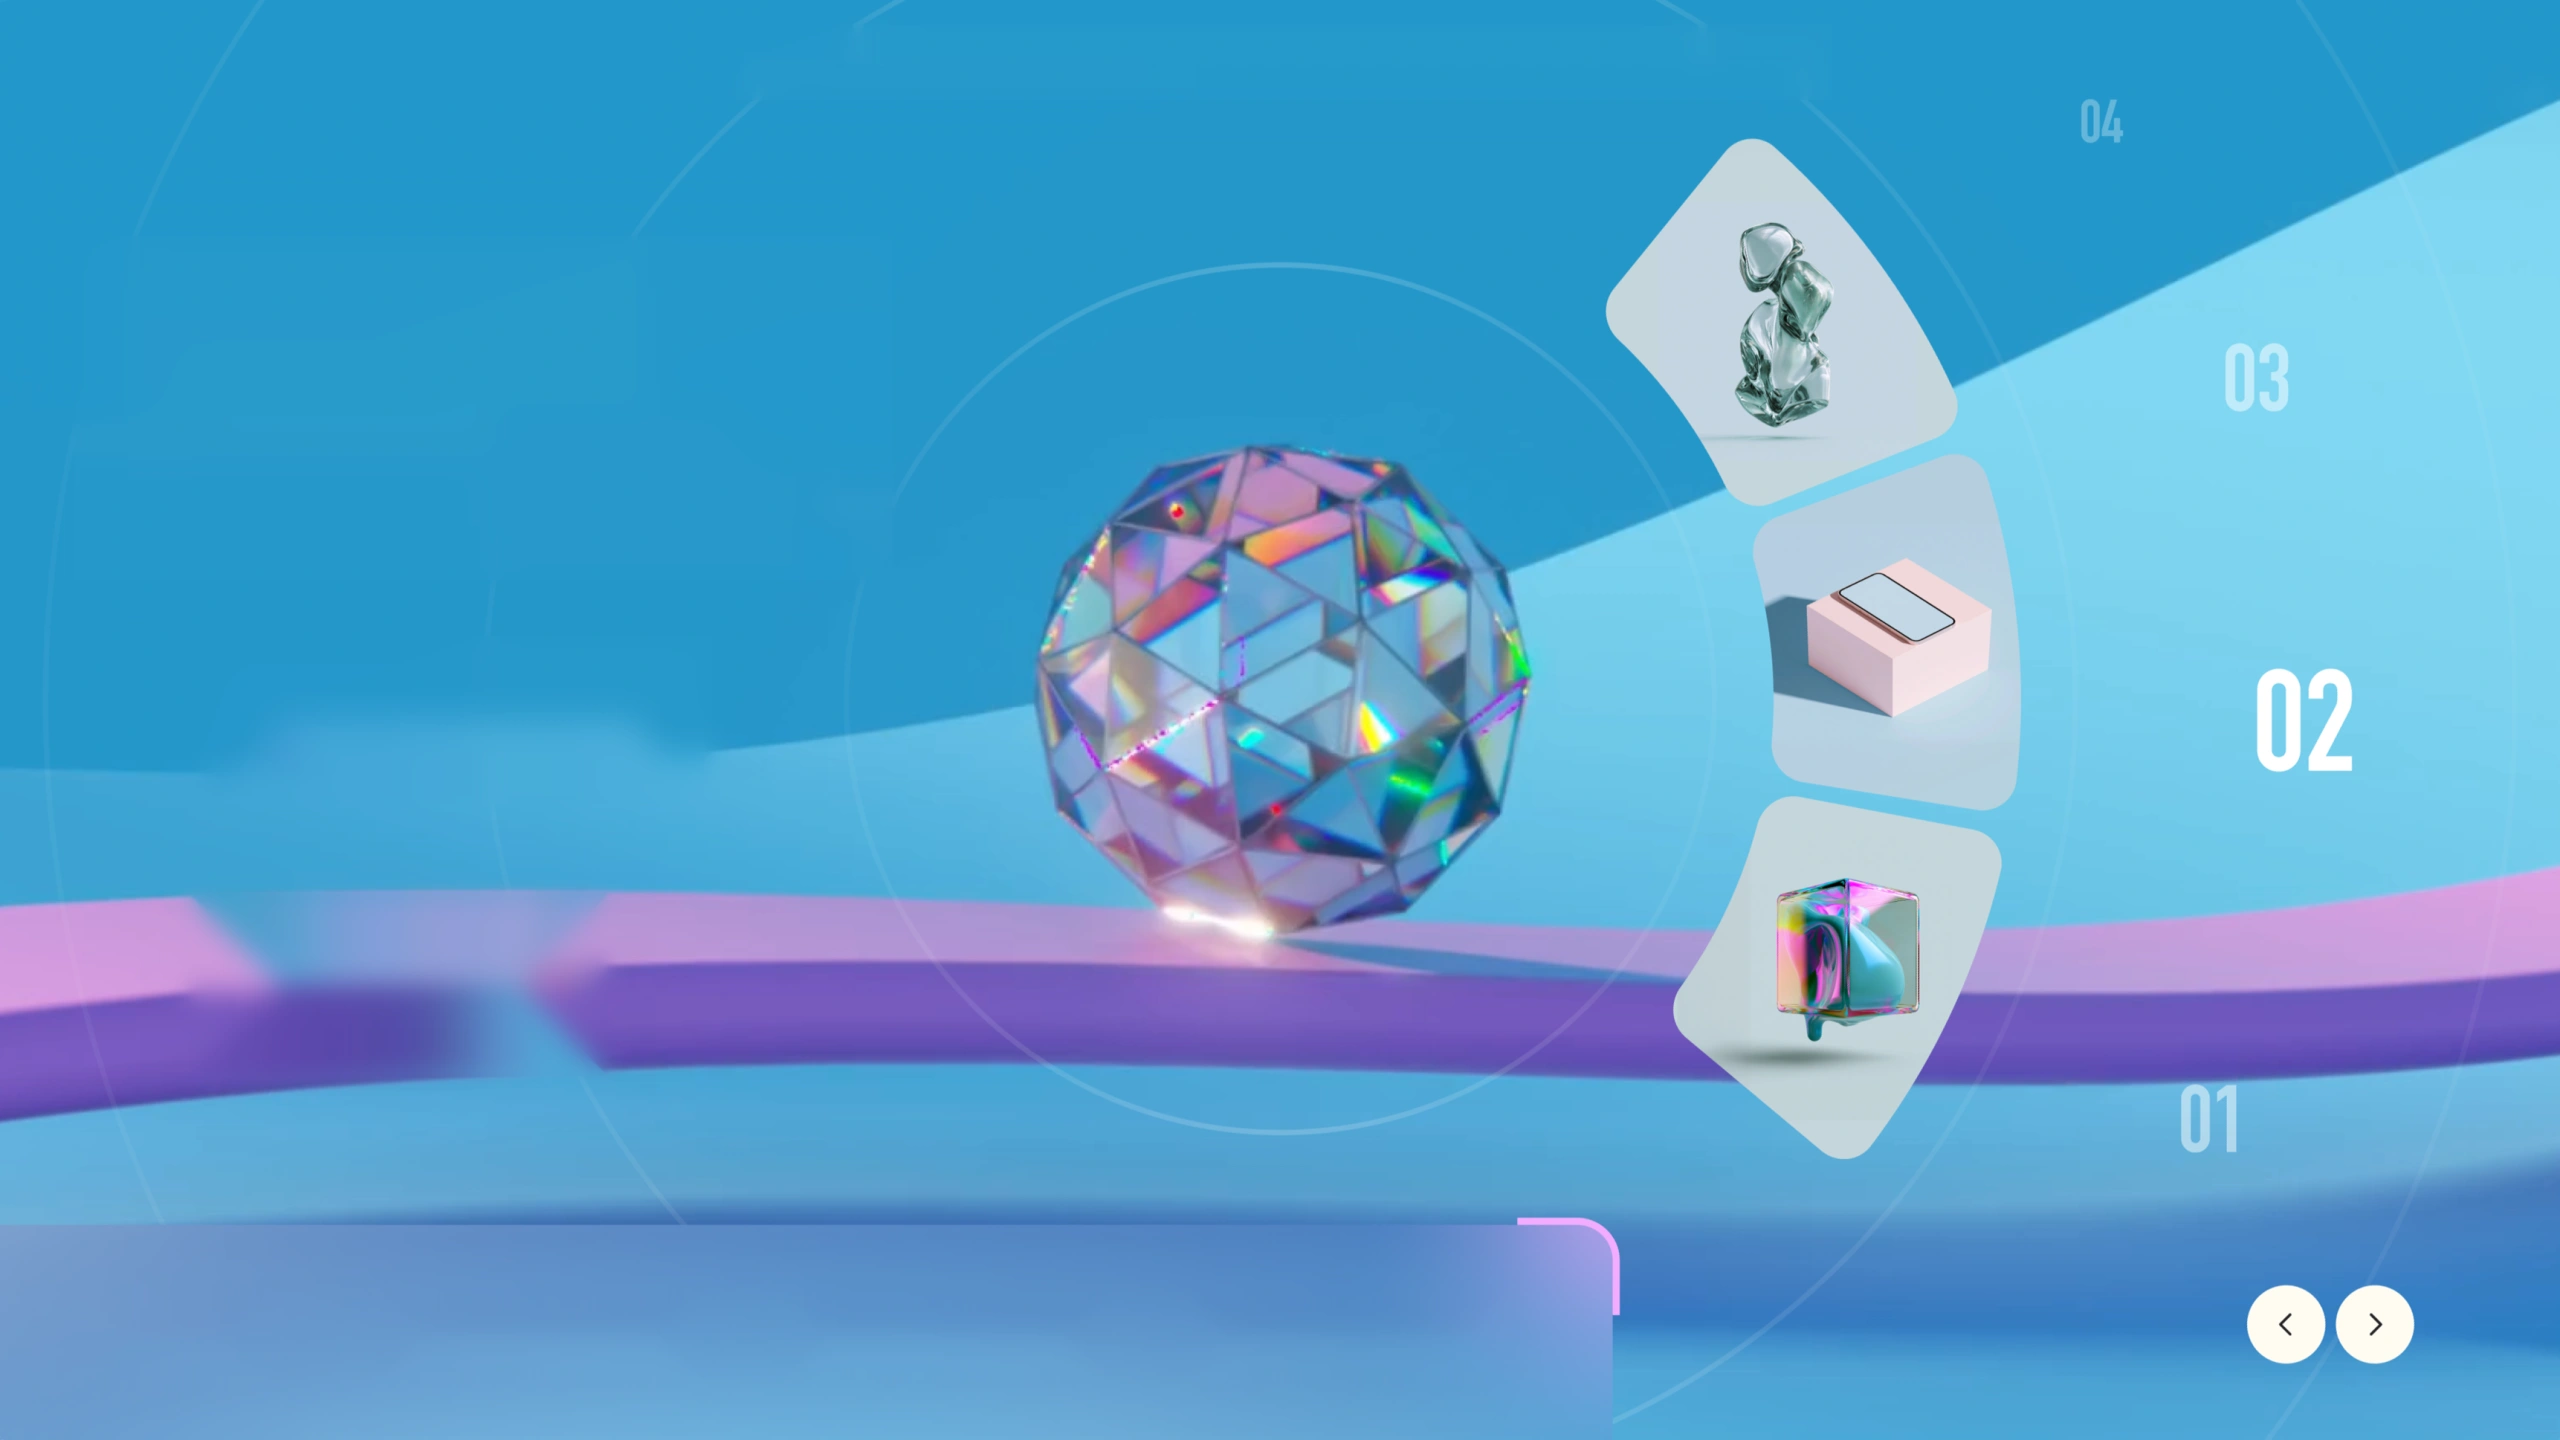
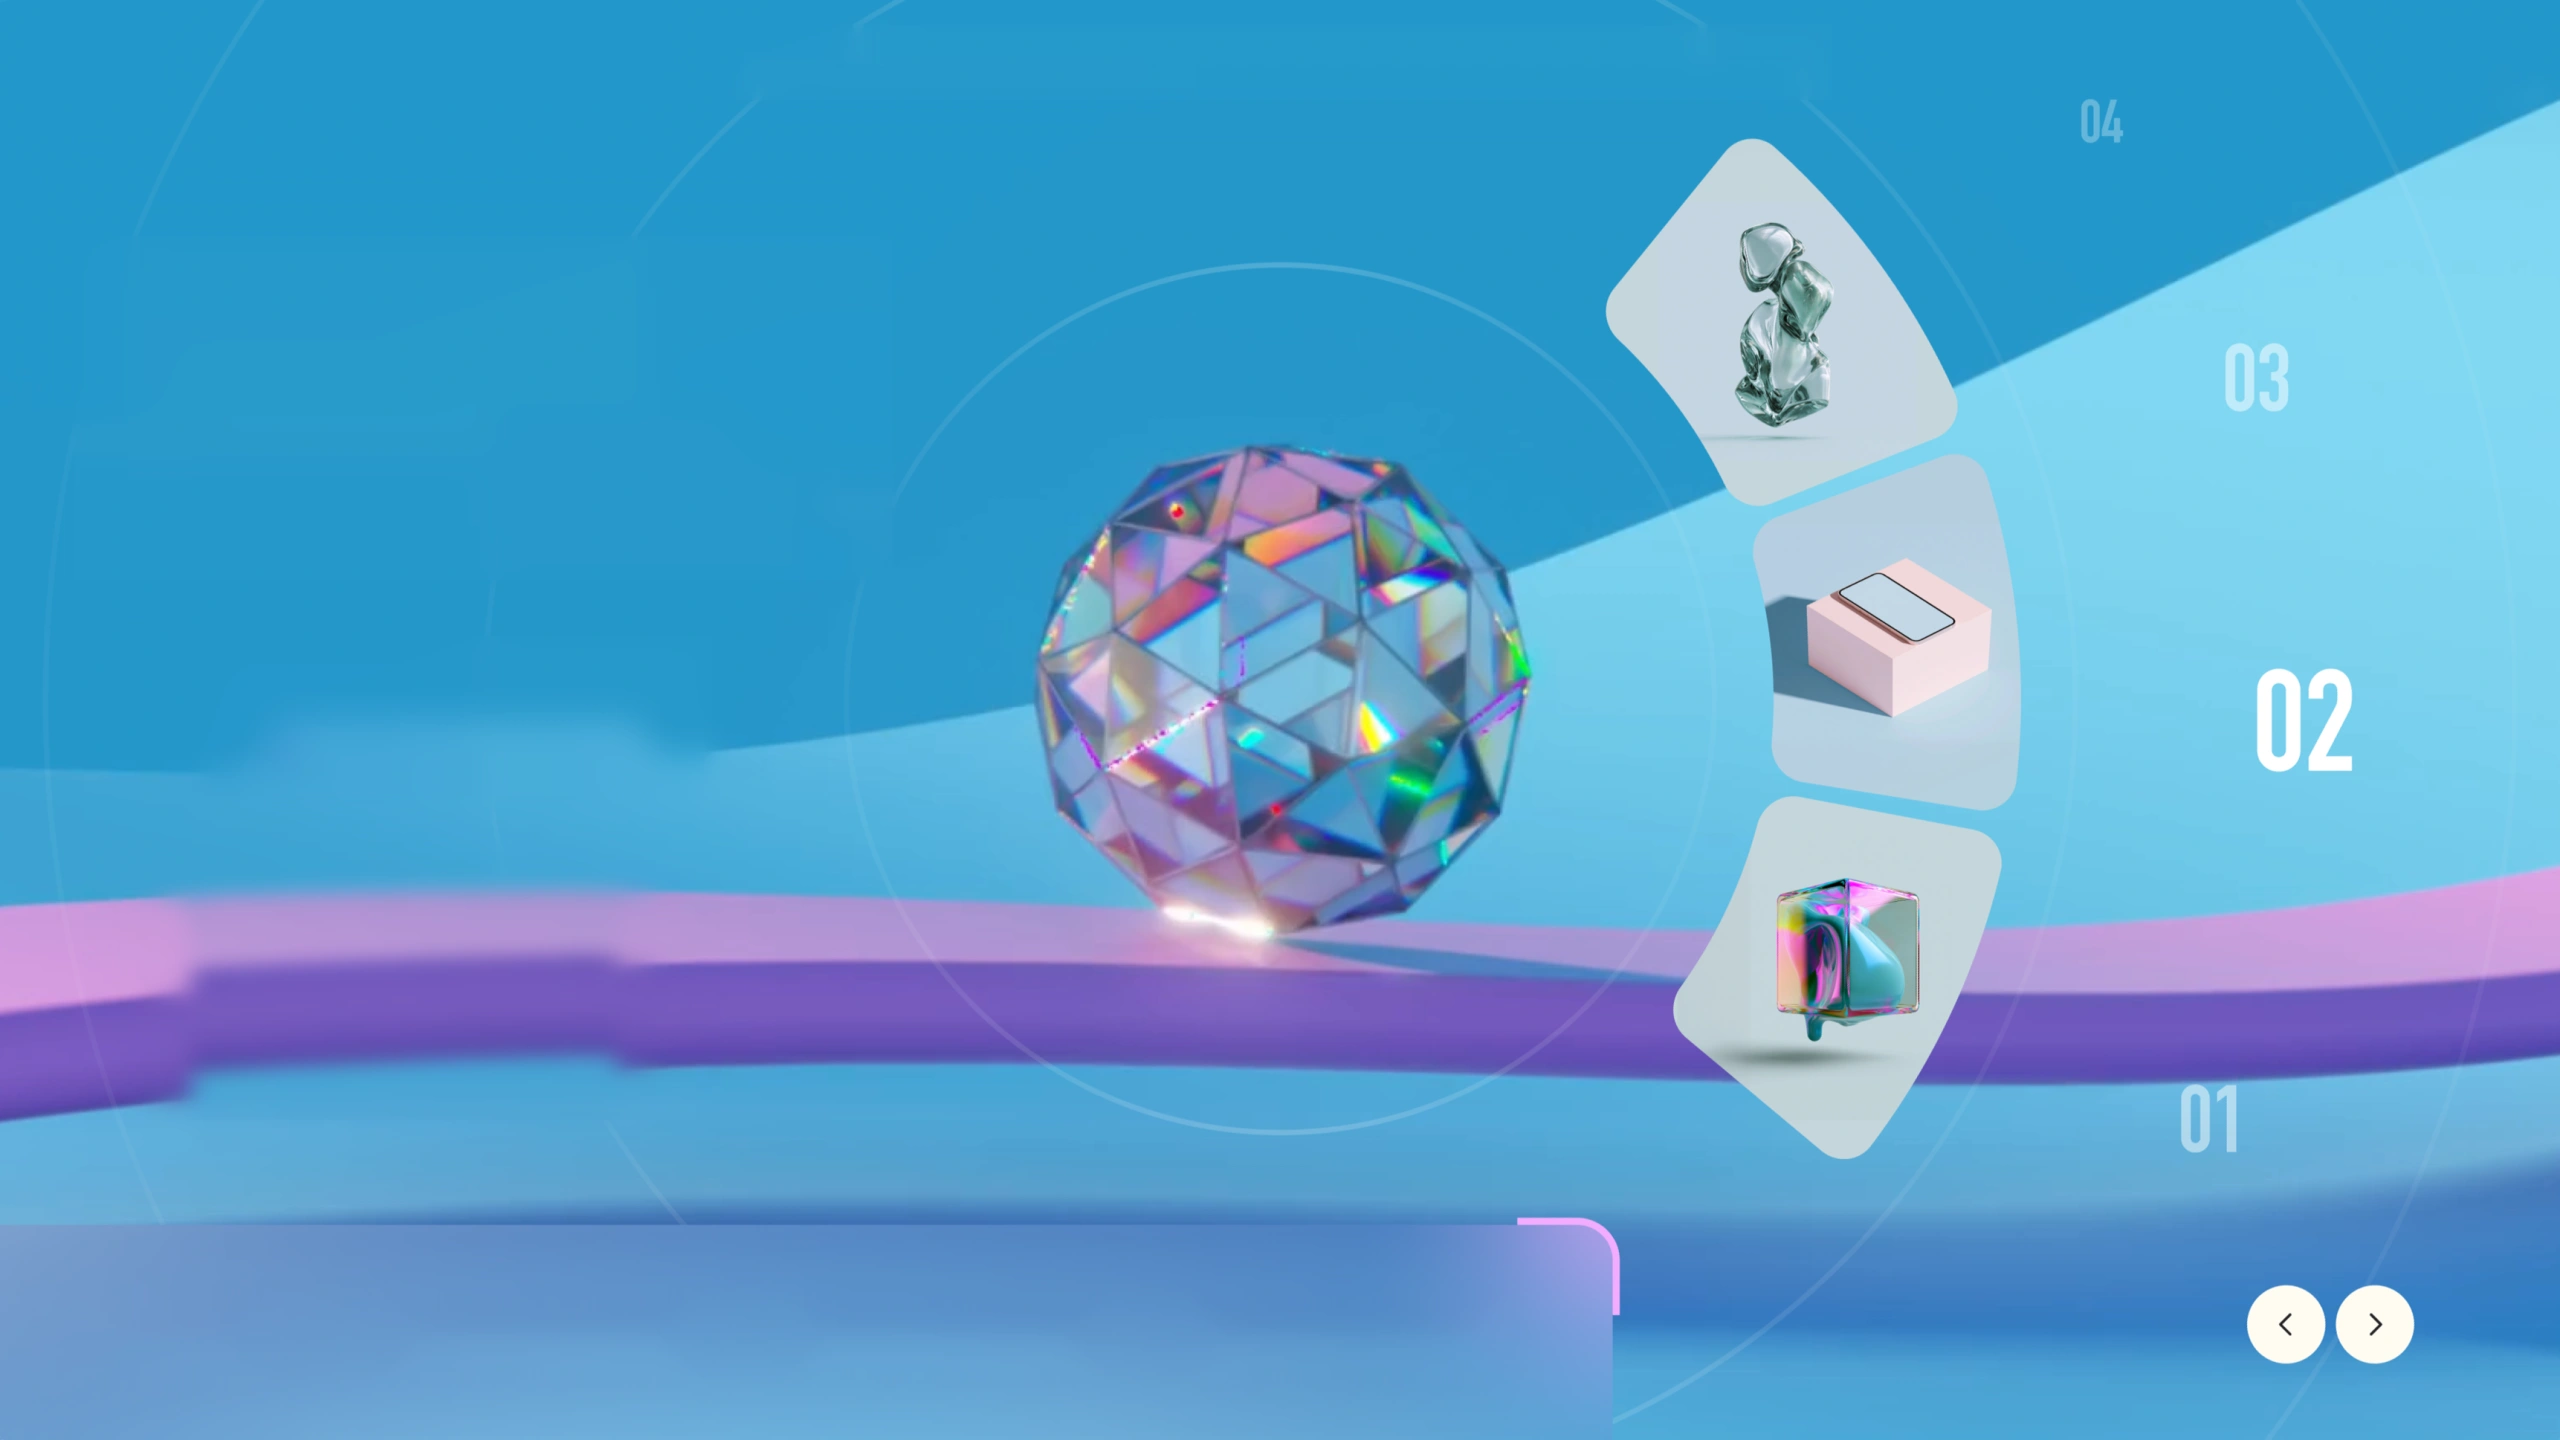
Simplify hero to editorial composition on all screens
- Drop the full-bleed overlay stage; use the mobile-style layout
  everywhere: dark headline + subtitle + CTA + scene poster + pillars
- Reconstruct the ribbon where the baked pill was removed (structured
  column cloning aligned by ribbon edge) — clean scene at poster size
- Remove orphan hero-stage CSS

Changed region(s): [[0.0625, 0.5938, 0.25, 0.7812]]

diff --git a/src/components/sections/hero-fractal.tsx b/src/components/sections/hero-fractal.tsx
@@ -9,133 +9,94 @@ import { Button } from "@/components/ui/button";
 const ease = [0.22, 1, 0.36, 1] as const;
 
 /**
- * Hero cinematográfico — reconstrução fiel do template "Daily Hero 33 /
- * Arkkhe" com conteúdo RZRD. A cena (cristal, fita, cards, números) vem de
- * uma única imagem extraída do Figma e limpa; TODA a tipografia e UI são
- * reconstruídas em código, posicionadas sobre um stage 16:9 que escala em
- * sincronia perfeita com o fundo (container query units).
+ * Hero editorial — headline "MATÉRIA DIGIT▲L" sobre a base clara, com a
+ * cena do cristal (extraída do Figma) como poster. Mesma composição em
+ * todas as telas, escalada com fluidez.
  */
 export function HeroFractal() {
   return (
     <section id="top" className="relative">
-      <DesktopStage />
-      <MobileHero />
-    </section>
-  );
-}
-
-/* ------------------------------------------------------------------ */
-/* Desktop: full-bleed 16:9 stage with overlaid UI                     */
-/* ------------------------------------------------------------------ */
-
-function DesktopStage() {
-  return (
-    <div className="hero-stage hidden lg:block">
-      {/* Scene */}
-      <motion.div
-        className="absolute inset-0"
-        initial={{ scale: 1.06 }}
-        animate={{ scale: 1 }}
-        transition={{ duration: 2.2, ease }}
-      >
-        <Image
-          src="/hero/scene.webp"
-          alt="Cristal facetado iridescente sobre uma fita roxa — matéria digital RZRD"
-          fill
-          priority
-          sizes="100vw"
-          className="object-cover"
-        />
-      </motion.div>
-
-      {/* Headline */}
-      <motion.h1
-        className="font-hero-display absolute left-[3.4%] top-[15.5%] text-white [font-size:6.3cqw]"
-        initial={{ opacity: 0, y: 28, filter: "blur(10px)" }}
-        animate={{ opacity: 1, y: 0, filter: "blur(0px)" }}
-        transition={{ duration: 0.9, delay: 0.15, ease }}
-      >
-        <span className="block">{heroFractal.line1}</span>
-        <span className="block pl-[2.1cqw]">
-          {heroFractal.line2Pre}
-          <Tri />
-          {heroFractal.line2Post}
-        </span>
-      </motion.h1>
-
-      {/* Subtitle */}
-      <motion.p
-        className="font-hero-ui absolute left-[8.4%] top-[44%] font-medium leading-[1.6] text-white [font-size:1.55cqw] [text-shadow:0_1px_14px_rgba(20,60,140,0.25)]"
-        initial={{ opacity: 0, y: 20 }}
-        animate={{ opacity: 1, y: 0 }}
-        transition={{ duration: 0.8, delay: 0.35, ease }}
-      >
-        {heroFractal.subtitle.map((l) => (
-          <span key={l} className="block">
-            {l}
+      <div className="container-page pb-16 pt-32 sm:pb-20 lg:pt-40">
+        <motion.h1
+          className="font-hero-display text-ink text-[clamp(2.9rem,9vw,6.5rem)]"
+          initial={{ opacity: 0, y: 24 }}
+          animate={{ opacity: 1, y: 0 }}
+          transition={{ duration: 0.8, ease }}
+        >
+          <span className="block">{heroFractal.line1}</span>
+          <span className="block">
+            {heroFractal.line2Pre}
+            <Tri />
+            {heroFractal.line2Post}
           </span>
-        ))}
-      </motion.p>
+        </motion.h1>
 
-      {/* CTA — sized to fully cover the baked "Discover Now" pill */}
-      <motion.a
-        href={heroFractal.cta.href}
-        className="font-hero-ui absolute left-[7.3%] top-[61.8%] flex h-[13%] min-w-[18.5%] items-center justify-center rounded-full bg-white px-[2.4cqw] font-semibold text-[#1d1d1f] shadow-[0_18px_50px_-12px_rgba(30,60,140,0.45)] transition-transform duration-300 hover:scale-[1.04] [font-size:1.28cqw]"
-        initial={{ opacity: 0, y: 16 }}
-        animate={{ opacity: 1, y: 0 }}
-        transition={{ duration: 0.8, delay: 0.5, ease }}
-      >
-        {heroFractal.cta.label}
-      </motion.a>
+        <motion.p
+          className="font-hero-ui mt-6 max-w-2xl text-[1.05rem] font-medium leading-relaxed text-muted sm:text-lg"
+          initial={{ opacity: 0, y: 18 }}
+          animate={{ opacity: 1, y: 0 }}
+          transition={{ duration: 0.8, delay: 0.15, ease }}
+        >
+          {heroFractal.subtitle.join(" ")}
+        </motion.p>
 
-      {/* Card hotspots (baked cards → live links) */}
-      <CardHotspot area="left-[62.6%] top-[9%] h-[24.6%] w-[14.2%]" label="Ver soluções de IA" />
-      <CardHotspot area="left-[68.2%] top-[34.8%] h-[20.9%] w-[11%]" label="Ver plataformas web e apps" />
-      <CardHotspot area="left-[65.1%] top-[55.9%] h-[23.7%] w-[13.2%]" label="Ver cloud e automação" />
+        <motion.div
+          className="mt-8"
+          initial={{ opacity: 0, y: 14 }}
+          animate={{ opacity: 1, y: 0 }}
+          transition={{ duration: 0.7, delay: 0.28, ease }}
+        >
+          <Button href={heroFractal.cta.href} size="lg" withArrow>
+            {heroFractal.cta.label}
+          </Button>
+        </motion.div>
 
-      {/* Bottom glass bar */}
-      <motion.div
-        className="absolute bottom-[2.6%] left-[2.6%] flex h-[10%] w-[60.5%] items-center gap-[2.6cqw] rounded-[1.4cqw] border border-white/35 bg-white/20 px-[2.2cqw] shadow-[0_8px_40px_-12px_rgba(30,60,140,0.35)] backdrop-blur-lg"
-        initial={{ opacity: 0, y: 24 }}
-        animate={{ opacity: 1, y: 0 }}
-        transition={{ duration: 0.9, delay: 0.65, ease }}
-      >
-        <p className="font-hero-ui shrink-0 font-bold uppercase leading-[1.25] tracking-wider text-white [font-size:0.95cqw]">
-          {heroFractal.bar.label.split(" ").map((w) => (
-            <span key={w} className="block">
-              {w}
-            </span>
-          ))}
-        </p>
-        {heroFractal.bar.items.map((item) => (
-          <div key={item.title} className="font-hero-ui min-w-0">
-            <p className="font-semibold text-white [font-size:1.1cqw]">
-              {item.title}
-            </p>
-            <p className="mt-[0.2cqw] text-white/75 [font-size:0.9cqw]">
-              {item.sub}
-            </p>
+        {/* Poster com a cena do cristal */}
+        <motion.div
+          className="relative mt-12 overflow-hidden rounded-[var(--radius-xl)] shadow-[var(--shadow-float)]"
+          initial={{ opacity: 0, y: 30, scale: 0.98 }}
+          animate={{ opacity: 1, y: 0, scale: 1 }}
+          transition={{ duration: 0.9, delay: 0.4, ease }}
+        >
+          <div className="relative aspect-[4/3] sm:aspect-video">
+            <Image
+              src="/hero/scene.webp"
+              alt="Cristal facetado iridescente sobre uma fita roxa — matéria digital RZRD"
+              fill
+              priority
+              sizes="(min-width: 80rem) 76rem, 92vw"
+              className="object-cover object-[62%_50%] sm:object-center"
+            />
           </div>
-        ))}
-      </motion.div>
-    </div>
-  );
-}
+        </motion.div>
 
-function CardHotspot({ area, label }: { area: string; label: string }) {
-  return (
-    <a
-      href="#services"
-      aria-label={label}
-      className={`absolute rounded-[2.2cqw] border border-transparent transition-all duration-300 hover:border-white/70 hover:shadow-[0_0_0_4px_rgba(255,255,255,0.15)] ${area}`}
-    />
+        {/* Pilares */}
+        <div className="mt-8 grid gap-3 sm:grid-cols-3 sm:gap-4">
+          {heroFractal.bar.items.map((item, i) => (
+            <motion.div
+              key={item.title}
+              className="glass glass-sheen rounded-2xl px-5 py-4"
+              initial={{ opacity: 0, y: 16 }}
+              animate={{ opacity: 1, y: 0 }}
+              transition={{ duration: 0.7, delay: 0.55 + i * 0.08, ease }}
+            >
+              <p className="font-hero-ui text-[0.95rem] font-semibold text-ink">
+                {item.title}
+              </p>
+              <p className="font-hero-ui mt-0.5 text-sm text-faint">
+                {item.sub}
+              </p>
+            </motion.div>
+          ))}
+        </div>
+      </div>
+    </section>
   );
 }
 
 /** Triângulo azul que substitui o "A" — mesmo artifício do template. */
 function Tri() {
-  // id único por instância: um gradiente definido dentro de um contêiner
-  // display:none (variante desktop/mobile oculta) não resolve para as demais.
+  // id único por instância para o gradiente do SVG.
   const id = useId();
   return (
     <svg
@@ -158,83 +119,5 @@ function Tri() {
         strokeLinejoin="round"
       />
     </svg>
-  );
-}
-
-/* ------------------------------------------------------------------ */
-/* Mobile: editorial stack + scene as poster                           */
-/* ------------------------------------------------------------------ */
-
-function MobileHero() {
-  return (
-    <div className="container-page pb-16 pt-32 lg:hidden">
-      <motion.h1
-        className="font-hero-display text-ink text-[clamp(2.9rem,13vw,4.5rem)]"
-        initial={{ opacity: 0, y: 24 }}
-        animate={{ opacity: 1, y: 0 }}
-        transition={{ duration: 0.8, ease }}
-      >
-        <span className="block">{heroFractal.line1}</span>
-        <span className="block">
-          {heroFractal.line2Pre}
-          <Tri />
-          {heroFractal.line2Post}
-        </span>
-      </motion.h1>
-
-      <motion.p
-        className="font-hero-ui mt-5 max-w-md text-[1.05rem] font-medium leading-relaxed text-muted"
-        initial={{ opacity: 0, y: 18 }}
-        animate={{ opacity: 1, y: 0 }}
-        transition={{ duration: 0.8, delay: 0.15, ease }}
-      >
-        {heroFractal.subtitle.join(" ")}
-      </motion.p>
-
-      <motion.div
-        className="mt-7"
-        initial={{ opacity: 0, y: 14 }}
-        animate={{ opacity: 1, y: 0 }}
-        transition={{ duration: 0.7, delay: 0.28, ease }}
-      >
-        <Button href={heroFractal.cta.href} size="lg" withArrow>
-          {heroFractal.cta.label}
-        </Button>
-      </motion.div>
-
-      {/* Scene poster */}
-      <motion.div
-        className="relative mt-10 overflow-hidden rounded-[var(--radius-xl)] shadow-[var(--shadow-float)]"
-        initial={{ opacity: 0, y: 30, scale: 0.98 }}
-        animate={{ opacity: 1, y: 0, scale: 1 }}
-        transition={{ duration: 0.9, delay: 0.4, ease }}
-      >
-        <div className="relative aspect-[4/3]">
-          <Image
-            src="/hero/scene.webp"
-            alt="Cristal facetado iridescente sobre uma fita roxa — matéria digital RZRD"
-            fill
-            priority
-            sizes="92vw"
-            className="object-cover object-[62%_50%]"
-          />
-        </div>
-      </motion.div>
-
-      {/* Pillars */}
-      <div className="mt-8 grid gap-3 sm:grid-cols-3">
-        {heroFractal.bar.items.map((item) => (
-          <div
-            key={item.title}
-            className="glass glass-sheen rounded-2xl px-4 py-3.5"
-          >
-            <p className="font-hero-ui text-sm font-semibold text-ink">
-              {item.title}
-            </p>
-            <p className="font-hero-ui mt-0.5 text-xs text-faint">{item.sub}</p>
-          </div>
-        ))}
-      </div>
-    </div>
   );
 }

diff --git a/src/app/globals.css b/src/app/globals.css
@@ -235,19 +235,8 @@
   }
 
   /* -------------------------------------------------------------
-     Cinematic hero (template: Daily Hero 33 / Arkkhe)
-     The hero is a fixed 16:9 "stage" measured in container units,
-     so every overlaid element scales in perfect sync with the
-     background scene.
+     Tipografia do hero (template: Daily Hero 33 / Arkkhe)
   ------------------------------------------------------------- */
-  .hero-stage {
-    container-type: inline-size;
-    position: relative;
-    width: 100%;
-    aspect-ratio: 16 / 9;
-    overflow: hidden;
-  }
-
   .font-hero-display {
     font-family: var(--font-archivo), "Archivo", ui-sans-serif, sans-serif;
     font-weight: 600;